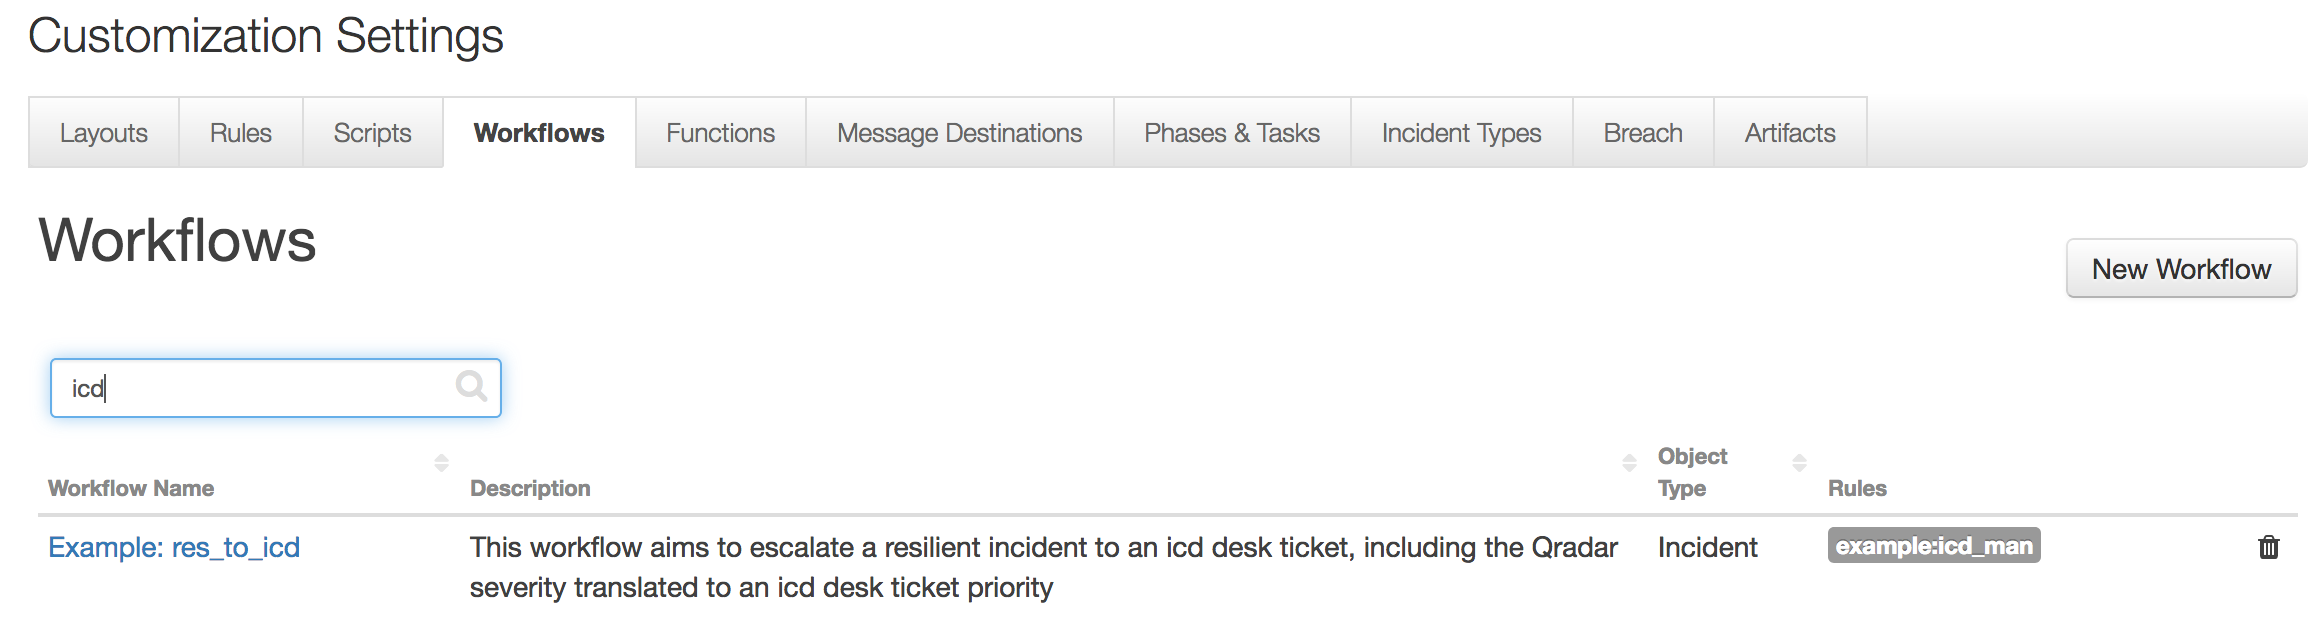
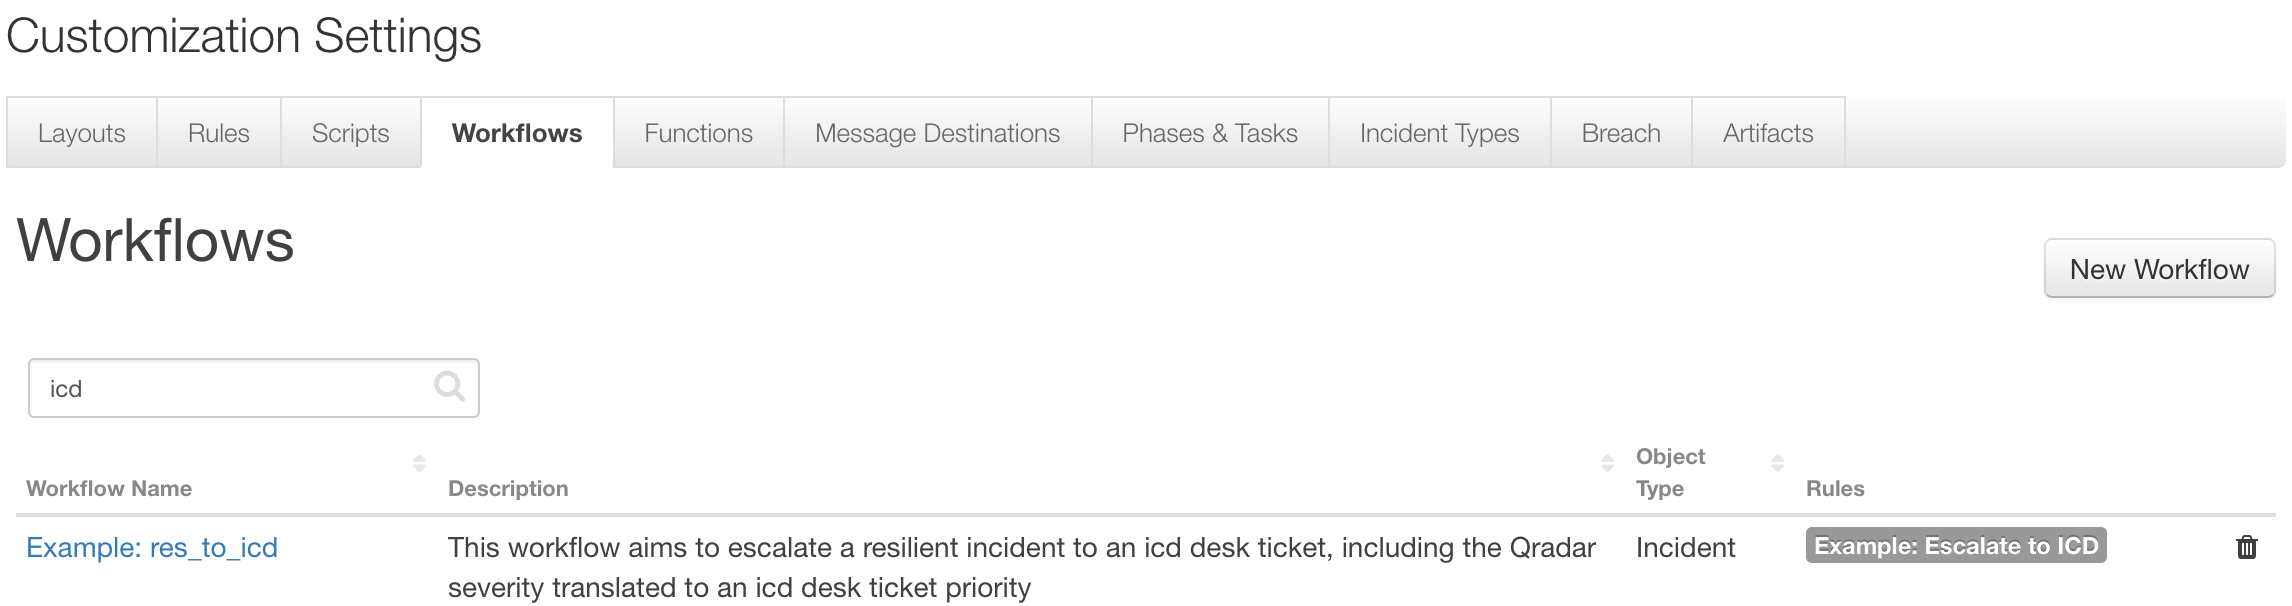
doc changes to reflect code changes

diff --git a/fn_res_to_icd/README.md b/fn_res_to_icd/README.md
@@ -1,6 +1,6 @@
 # Escalation of resilient incidents to ICD ticket for IBM Resilient
 
-This community app allows for the escalation of a incident from Resilient to the ICD desk, via a manual rule on each incident. A word document is attached which explains the mapping of resilient fields to the icd ticket fields for specific use cases, this integration is full customizable. If the custom qradar_severity field is not defined, the INTERNAL PRIORITY on icd desk (4) will can be set in the app config. IP Sources or Destination Artifacts will be automatically added to the icd ticket if the icd_qradar_severity is set to true in the app config settings.
+This community app allows for the escalation of a incident from Resilient to the ICD desk, via a manual rule on each incident. A word document is attached which explains the mapping of resilient fields to the icd ticket fields for specific use cases. This integration is customizable and allows for rearrangement of those use cases. If the icd_field_severity or icd_priority is not defined, the INTERNAL PRIORITY on icd desk (4) will be set on the escalated ticket corresponding to that resilient incident. IP Sources or Destination Artifacts will be automatically added to the icd ticket if the icd_field_severity is not None in the app config settings.
 
 To install the package,
 
@@ -21,27 +21,29 @@ Customize with:
 After installation, the package will be loaded by `resilient-circuits run`.
 
 ## Table of Contents
-  - [Function - Escalate incident to icd dashboard](#function---res-to-icd-function)
+  - [Function - Escalate resilient incident to icd dashboard](#function---res-to-icd-function)
+  - [Workflow - Trigger escalation of resilient incident to icd dashboard](#workflow---res-to-icd-workflow)
 
 ---
+# res-to-icd-function
 
 **This package contains 1 Function, 1 Workflow, and 1 Manual Rule (at the resilient incident level) that helps you to escalate a resilient incident to an icd ticket**
 
-![screenshot](./screenshots/0.png)
-
-* res-to-icd-workflow: gives you the ability to escalate the incident from resilient to icd
-
 ![screenshot](./screenshots/1.png)
 
-# res-to-icd-function
+# res-to-icd-workflow
+* res-to-icd-workflow: gives you the ability to escalate the incident from resilient to icd
+
+![screenshot](./screenshots/0.png)
+
 ## Config settings and prerequisites
-Package dependencies are included, import errors between python 2 and 3 are handled.
+All packages used are supported by pypi, import errors between python 2 and 3 are handled. The icd_severity can be specified by a custom value on the UI that can be specified here or can be given a numeric value.
 
 ```
 [fn_res_to_icd]
 icd_email=<YOUR ICD EMAIL>
 icd_pass=<YOUR ICD PASSWORD>
-icd_qradar_severity=<True or False>
+icd_severity_value=<custom_severity>
 icd_priority=<1-4>
 ```
 
@@ -51,7 +53,7 @@ As a further testing of credentials, the developer may run command:
 
 To verify that input credentials to icd dashboard are valid via an api call.
 
-An incident on the resilient can be escalated to the icd desk with IP Address artifacts  if Qradar severity has been set to true. An example incident is displayed below:
+An incident on the resilient can be escalated to the icd desk by running the "Escalate to ICD" manual rule. An example incident is displayed below:
 ![screenshot](./screenshots/2.png)
 
 When the manual rule is pressed, a correpsponding ticket will be created on the ICD dashboard:
